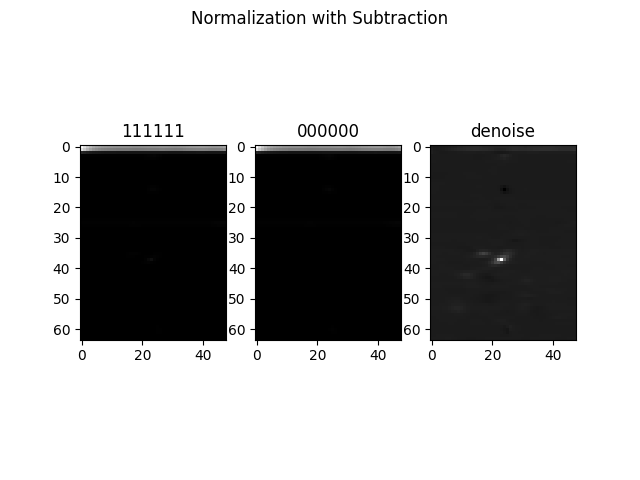
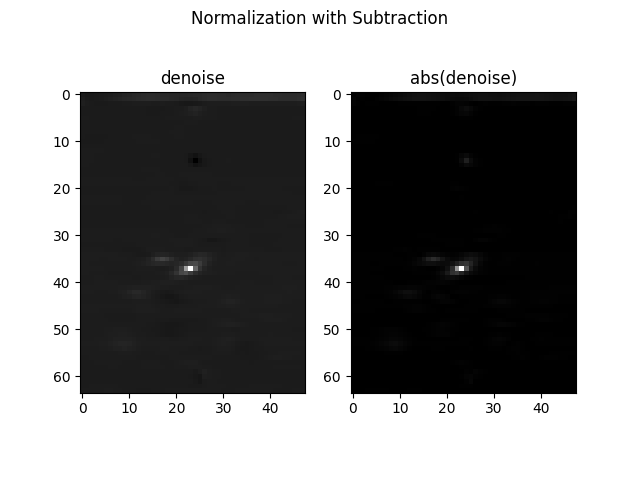
bug fixes

diff --git a/data/tests.py b/data/tests.py
@@ -64,30 +64,25 @@ def run_example():
     titles = ['111111', '000000']
     render(mat2, os.path.join(outpath, 'L_1.png'))
     render(mat1, os.path.join(outpath, 'L_0.png'))
-
+    contrast([mat2, mat1], os.path.join(outpath, 'gray_0_1.png'),
+               'Grayscale before denoising', titles, cmap='gray')
     contrast([mat2, mat1], os.path.join(outpath, 'rainbow_0_1.png'),
-               'CSV data before normalization', titles, cmap='rainbow')
+               'Heatmap before denoising', titles, cmap='rainbow')
 
     # denoise by subtraction
     denoise = mat2 - mat1
-    titles = ['111111', '000000', 'denoise']
+    titles = ['denoise', 'abs(denoise)']
     render(denoise, os.path.join(outpath, 'L_subtract.png'))
-    contrast([mat2, mat1, denoise], os.path.join(outpath, 'gray_subtract.png'),
+    contrast([denoise, np.abs(denoise)], os.path.join(outpath, 'gray_subtract.png'),
                'Normalization with Subtraction', titles, cmap='gray')
-    contrast([mat2, mat1, denoise], os.path.join(outpath, 'rainbow_subtract.png'),
+    contrast([denoise, np.abs(denoise)], os.path.join(outpath, 'rainbow_subtract.png'),
                'Normalization with Subtraction', titles, cmap='rainbow')
-
-    denoise = np.abs(mat2 - mat1)
-    render(denoise, os.path.join(outpath, 'Abs_L_subtract.png'))
-    contrast([mat2, mat1, denoise], os.path.join(outpath, 'gray_abs.png'),
-               'Abs Normalization with Subtraction', titles, cmap='gray')
-    contrast([mat2, mat1, denoise], os.path.join(outpath, 'rainbow_abs.png'),
-               'Abs Normalization with Subtraction', titles, cmap='rainbow')
-
 
     # denoise by cropping image
     c_mat2 = mat2[27:,:]
     titles = ['before cropping', 'after cropping']
     render(c_mat2, os.path.join(outpath, 'crop_L_1.png'))
+    contrast([mat2, c_mat2], os.path.join(outpath, 'gray_crop.png'),
+               'Normalization after cropping', titles, cmap='gray')
     contrast([mat2, c_mat2], os.path.join(outpath, 'rainbow_crop.png'),
                'Normalization after cropping', titles, cmap='rainbow')
